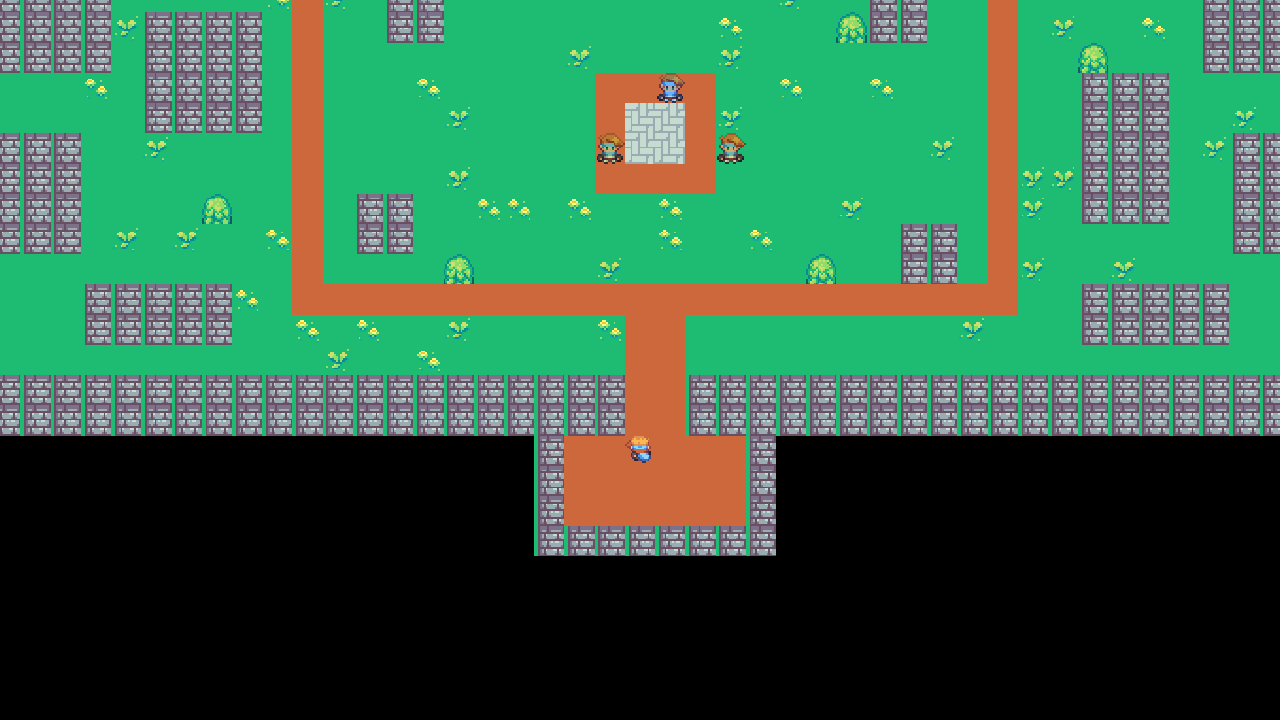
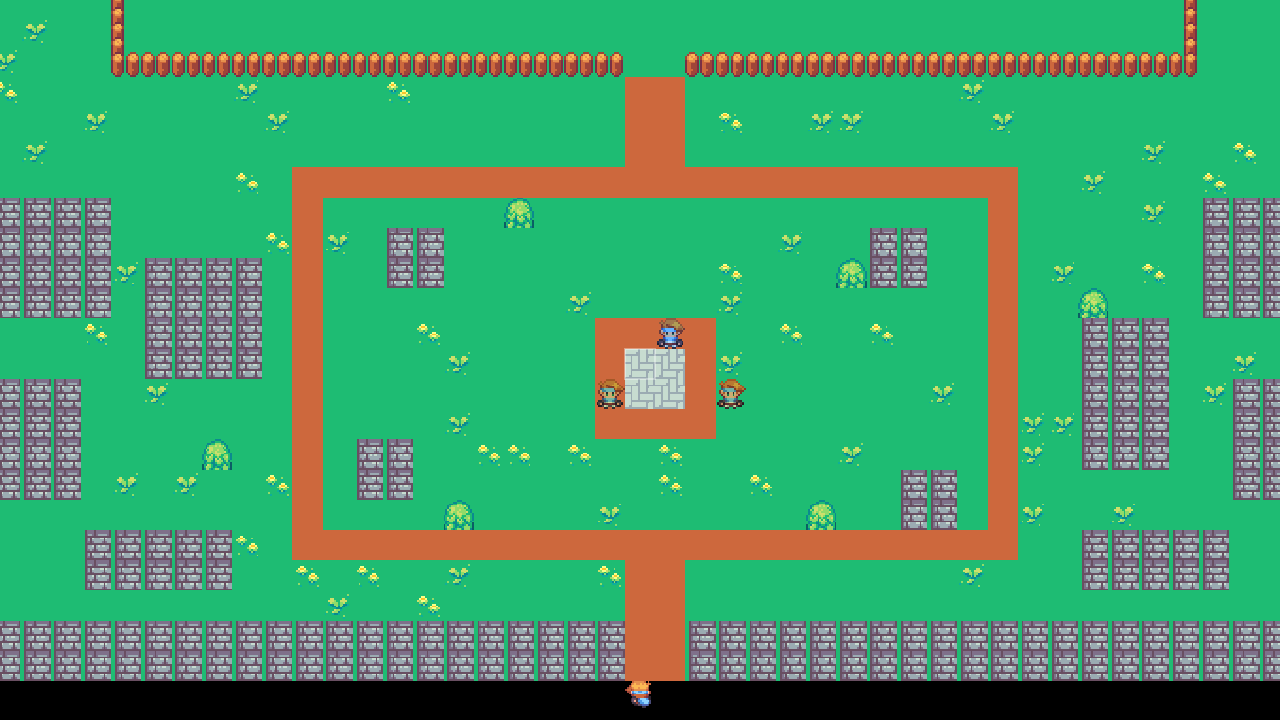
Arrival walk-out: just the wall + hero through the doorway (no room box)
Drop the vestibule "room box" (rejected as a loose stand-in for the
summoning room). camp_grounds back to 52x52 (wall + door only). The hero
spawns off-map below the wall and walks up through the doorway onto the
screen; the camera frames the south wall along the bottom with void below.

diff --git a/scripts/tools/gen_camp_grounds.py b/scripts/tools/gen_camp_grounds.py
@@ -10,7 +10,7 @@
 # Run: python scripts/tools/gen_camp_grounds.py
 import math, random
 
-W, H = 52, 56
+W, H = 52, 52
 OUT = "data/maps/camp_grounds.map"
 rng = random.Random(11)
 g = [['.' for _ in range(W)] for _ in range(H)]   # terrain
@@ -82,18 +82,11 @@ for (cxx, cyy) in [(17, 37), (34, 45), (33, 37), (16, 44)]:
 for (tx, ty) in [(11, 44), (40, 39), (19, 46), (32, 38), (21, 36), (31, 46)]:
     setc(tx, ty, 't')
 
-# ---- SOUTH WALL + exit vestibule: the hero starts INSIDE and walks out ----
-rect(0, 50, W - 1, 51, 'B')                            # solid outer wall (south edge)
+# ---- SOUTH WALL: the camp's edge. Only the wall shows; the hero walks up
+# through the doorway from OFF-SCREEN below (spawned off-map by the scene). ----
+rect(0, 50, W - 1, 51, 'B')                            # solid wall across the south
 rect(25, 50, 26, 51, ',')                              # doorway through the wall
-# everything below the wall is off-map (void/black) EXCEPT the building's vestibule
-for y in range(52, H):
-    for x in range(W):
-        g[y][x] = ' '
-rect(23, 52, 28, 54, ',')                              # vestibule floor (packed earth)
-for y in range(52, 55):                                # vestibule side walls
-    setc(22, y, 'B'); setc(29, y, 'B')
-rect(22, 55, 29, 55, 'B')                              # vestibule back wall
-seto(25, 54, 'P')                                      # the hero starts INSIDE, facing the door
+seto(25, 50, 'P')                                      # spawn marker at the door
 
 # ---------------------------------------------------------------- write it out
 with open(OUT, "w", encoding="utf-8") as f:
